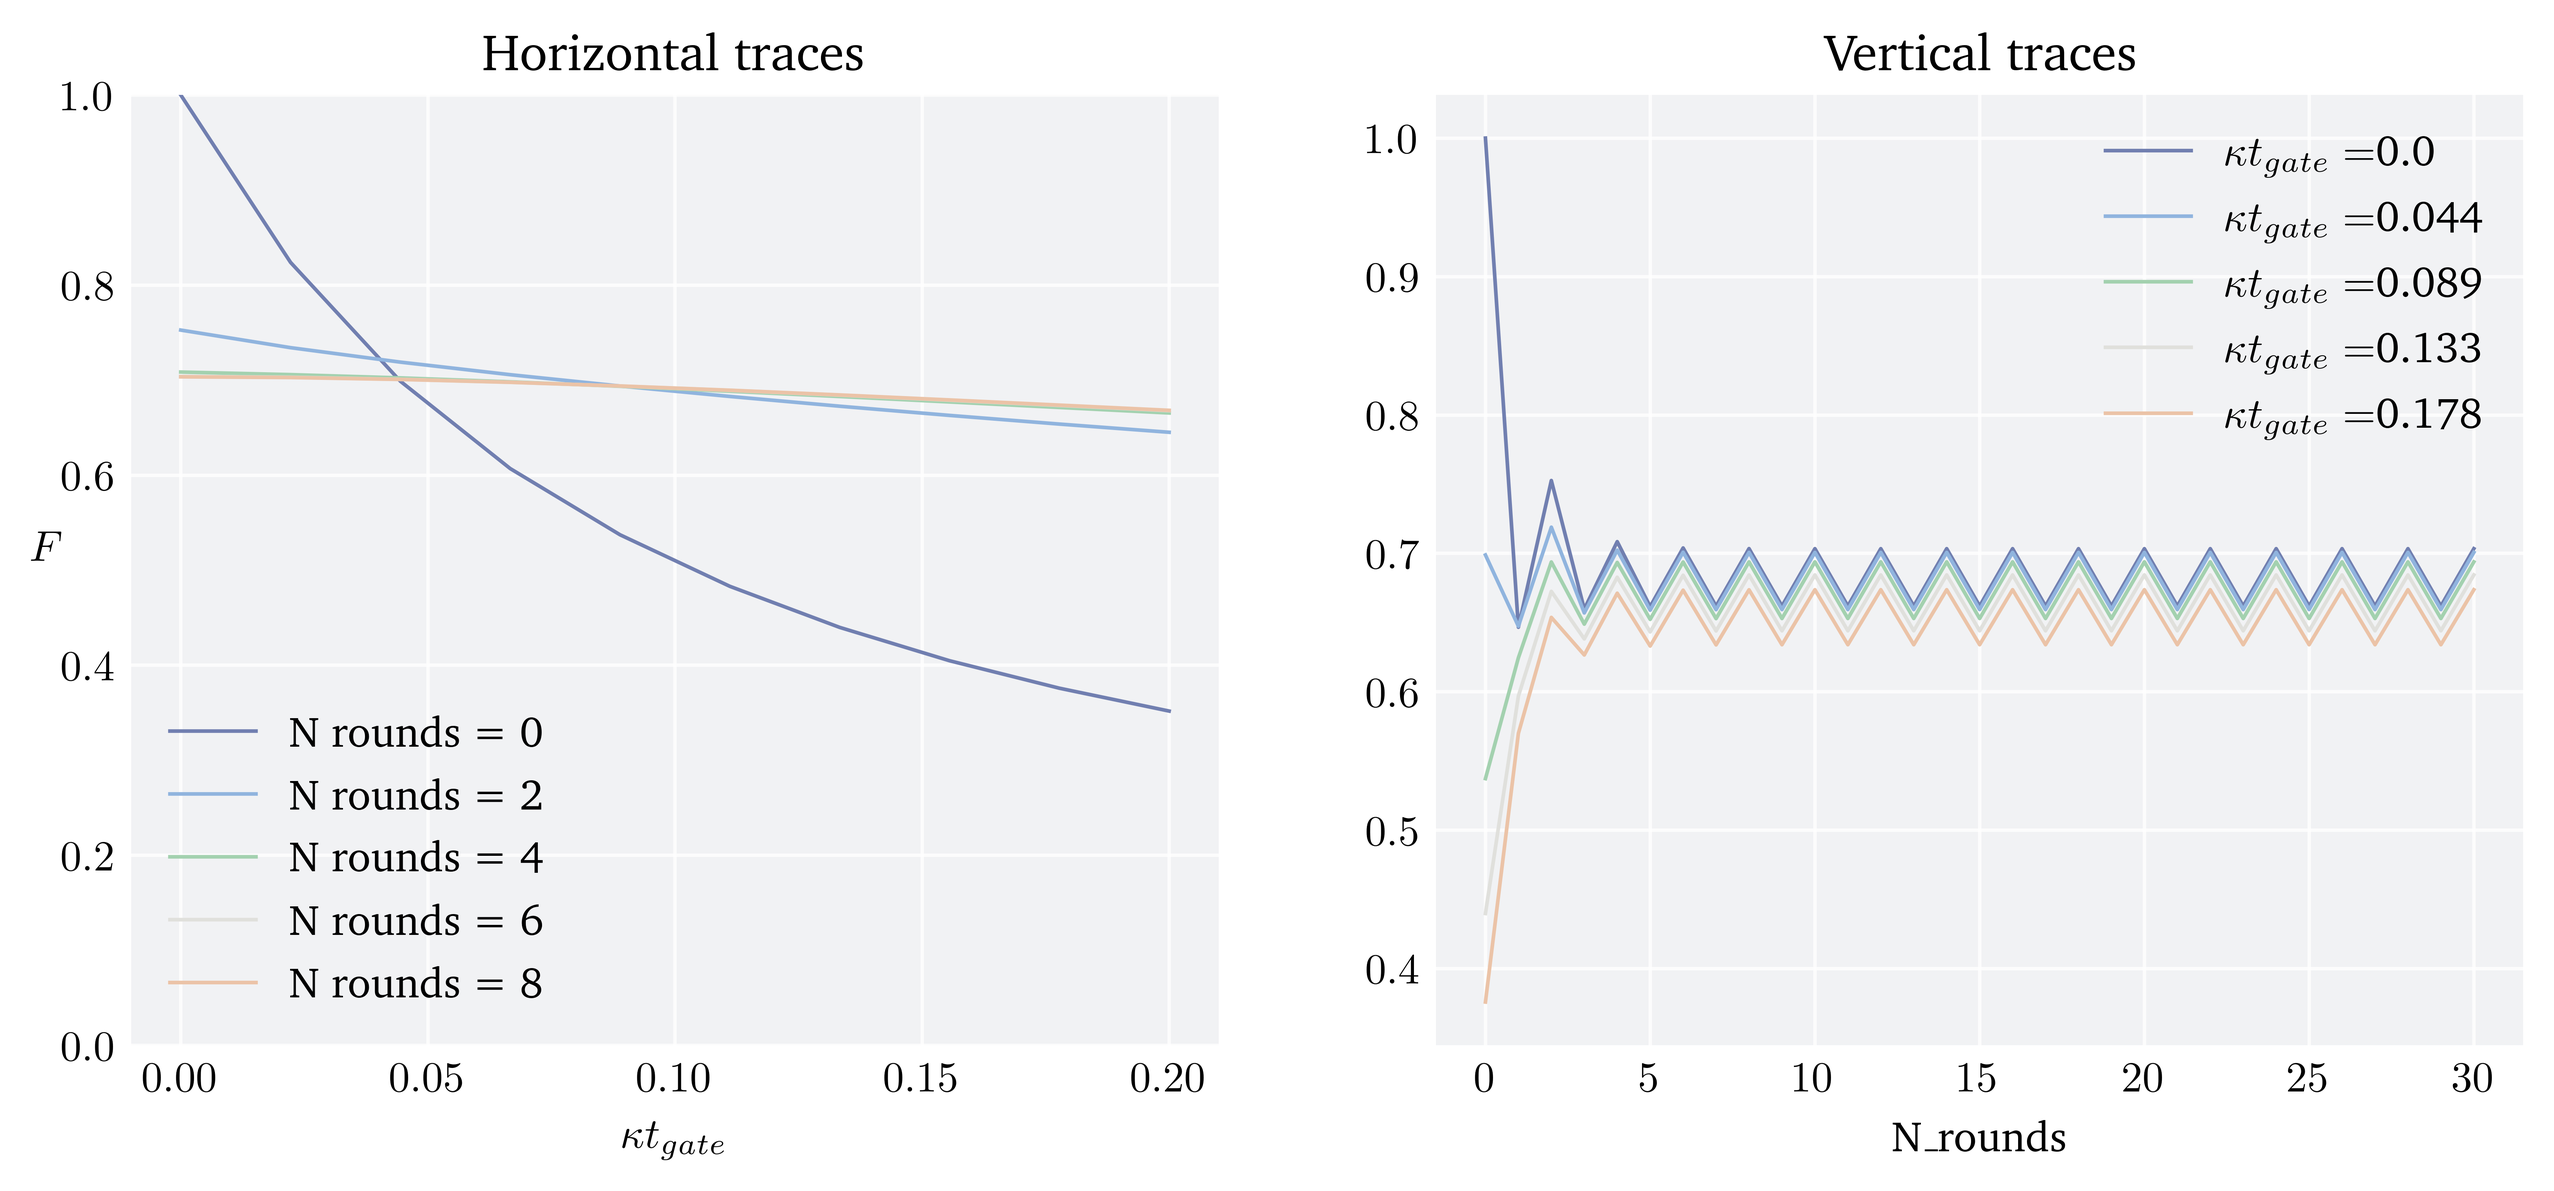
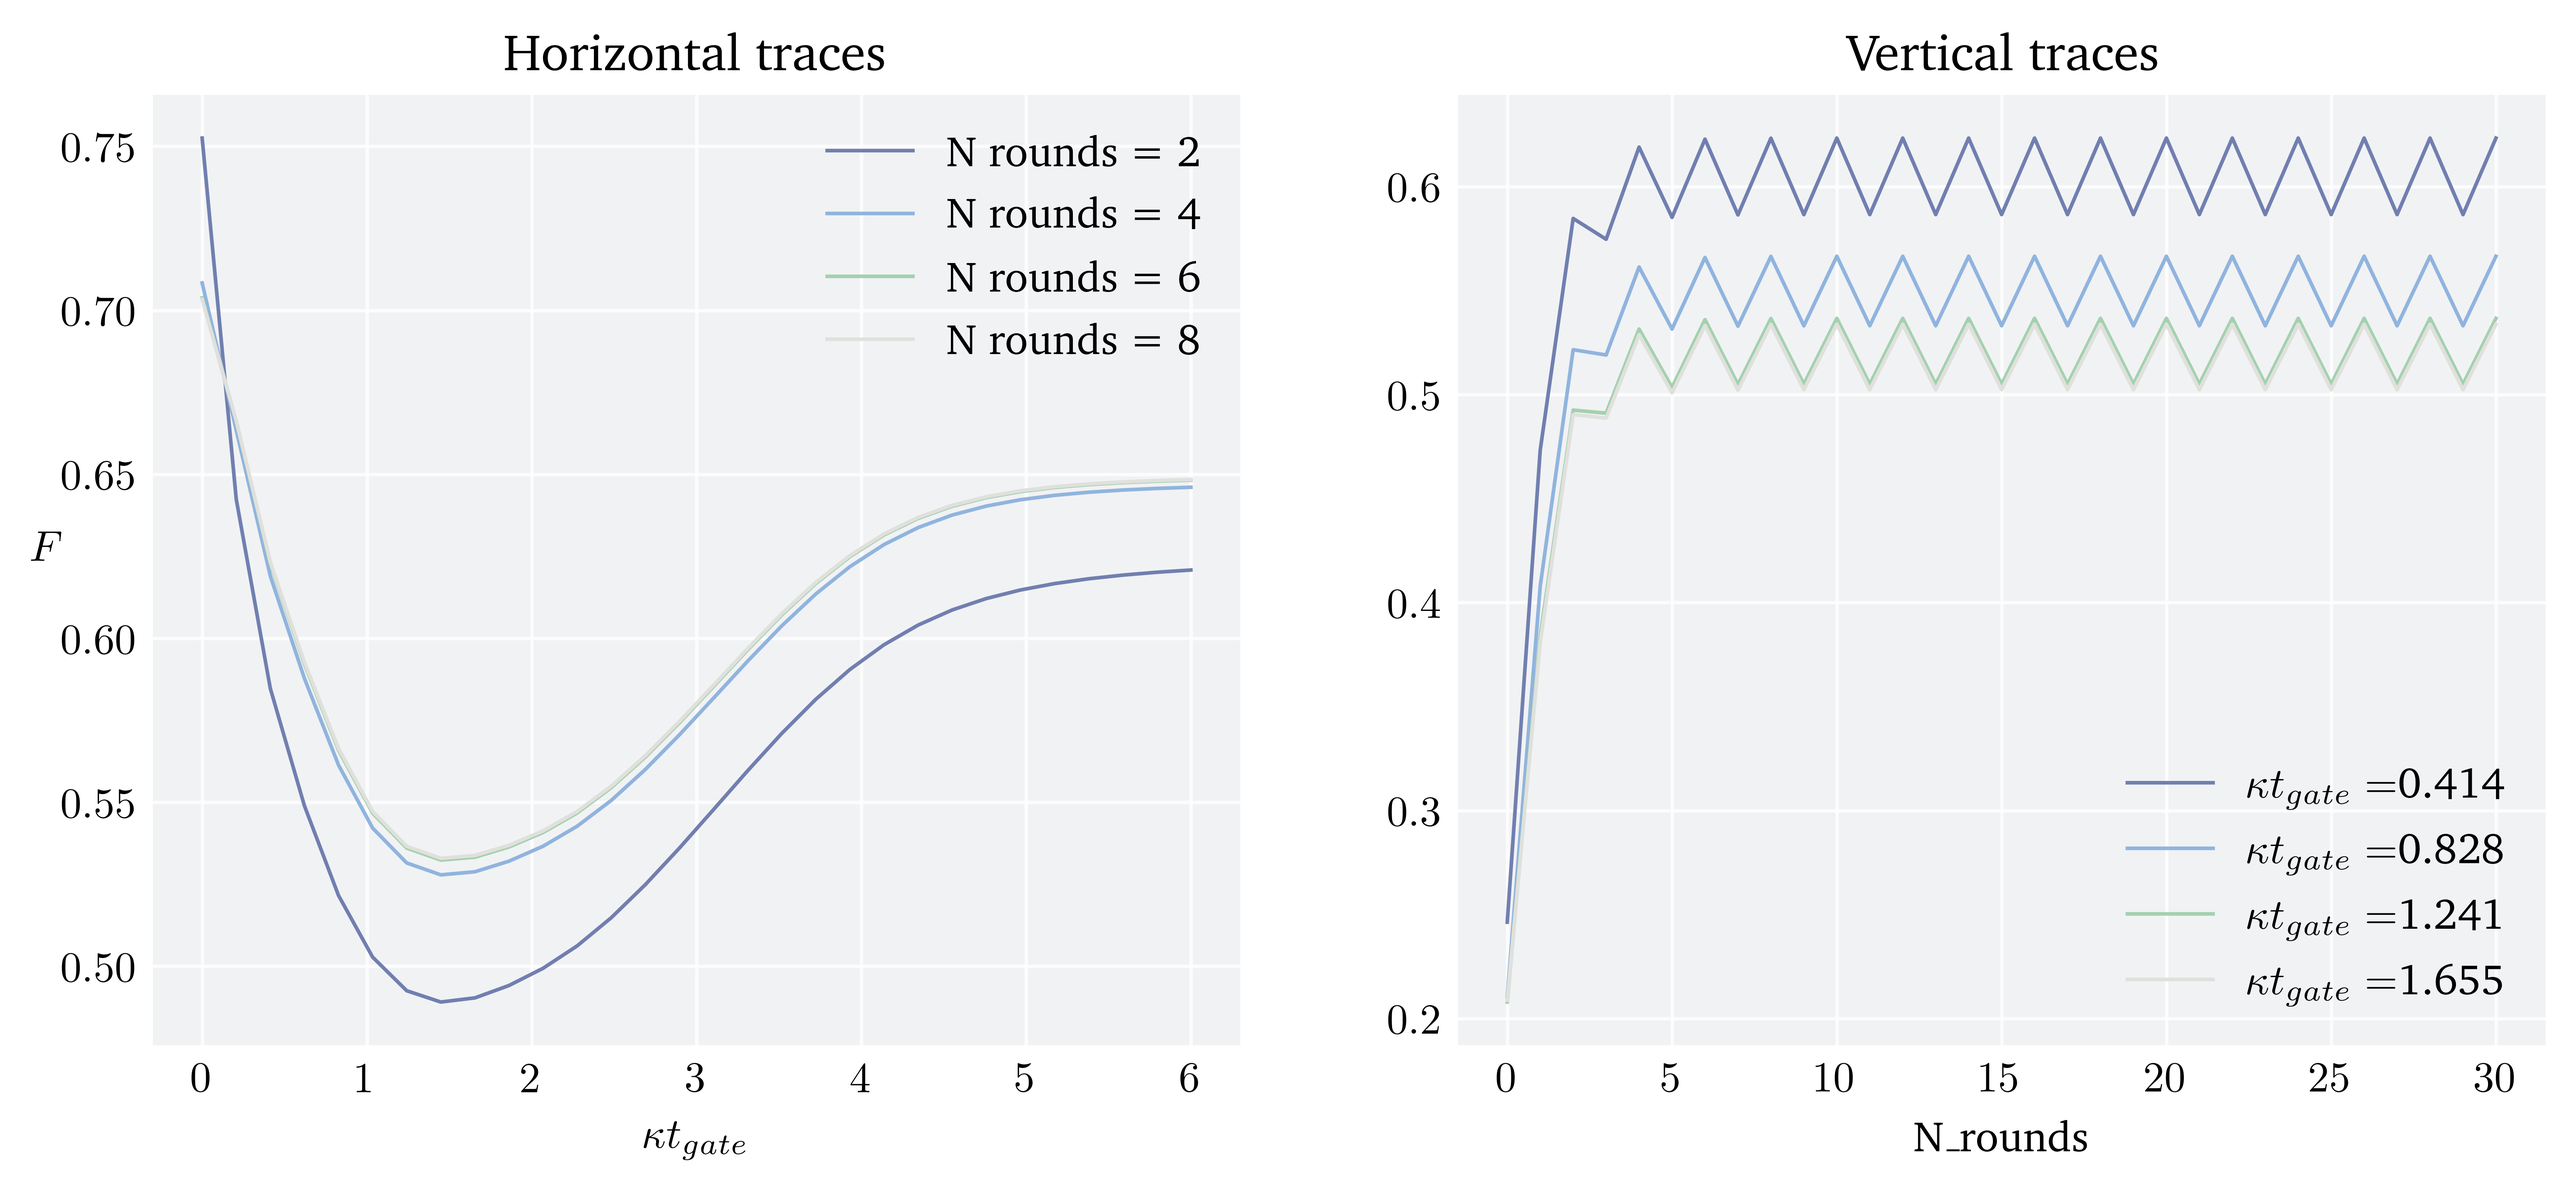
lennardjones_style

diff --git a/stage_baptiste/homemades/KrausOperator_JV.py b/stage_baptiste/homemades/KrausOperator_JV.py
@@ -291,7 +291,7 @@ def color_maps(GKP_obj,H,t_gate,max_error_rate,max_N_rounds,t_num=10,kap_num=10,
             axs[0].set_xlabel(r"$\kappa t_{gate}$")
             axs[1].set_xlabel("N_rounds")
             axs[0].set_ylabel(r"$F$",rotation=0)
-            axs[0].set_ylim(0,1)
+            # axs[0].set_ylim(0,1)
             axs[1].sharey = axs[0]
             for ax in axs:
                 ax.legend()
@@ -310,7 +310,7 @@ def color_maps(GKP_obj,H,t_gate,max_error_rate,max_N_rounds,t_num=10,kap_num=10,
                 ax.set_title("Vertical traces")
                 ax.set_xlabel("N_rounds")
             ax.set_ylabel(r"$F$",rotation=0)
-            ax.set_ylim(0, 1)
+            # ax.set_ylim(0, 1)
         plt.legend()
         if save:
             plt.savefig(fig_path + traces_fig_name)

diff --git a/stage_baptiste/projects/Kraus_codes/color_maps/colors_maps_analysis.py b/stage_baptiste/projects/Kraus_codes/color_maps/colors_maps_analysis.py
@@ -21,10 +21,10 @@ N_op = a.dag()*a
 GKP_obj = GKP(d,j,delta,hilbert_dim)
 H = N_op**2
 tgate = pi/8
-max_error_rate = 0.20
+max_error_rate = 6
 max_N_rounds = 30
-fig_name = "sqrtH_gg_cmap_ht2"
+fig_name = "big_sqrtH_gg_cmap"
 tr_fig_name = "traces"
 fig_path = f"/Users/jeremie/Desktop/Stage_Baptiste/stage_baptiste/projects/Kraus_codes/color_maps/figs/"
-color_maps(GKP_obj, H, tgate, max_error_rate, max_N_rounds, kap_num=10, mode='gg',
-           traces=True,traces_ix=[[0,2,4,6,8],[0,2,4,6,8]],fig_name=fig_name,traces_fig_name=tr_fig_name,fig_path=fig_path)
+color_maps(GKP_obj, H, tgate, max_error_rate, max_N_rounds, kap_num=30, mode='gg',
+           traces=True,traces_ix=[[2,4,6,8],[2,4,6,8]],fig_name=fig_name,traces_fig_name=tr_fig_name,fig_path=fig_path,show=True)
